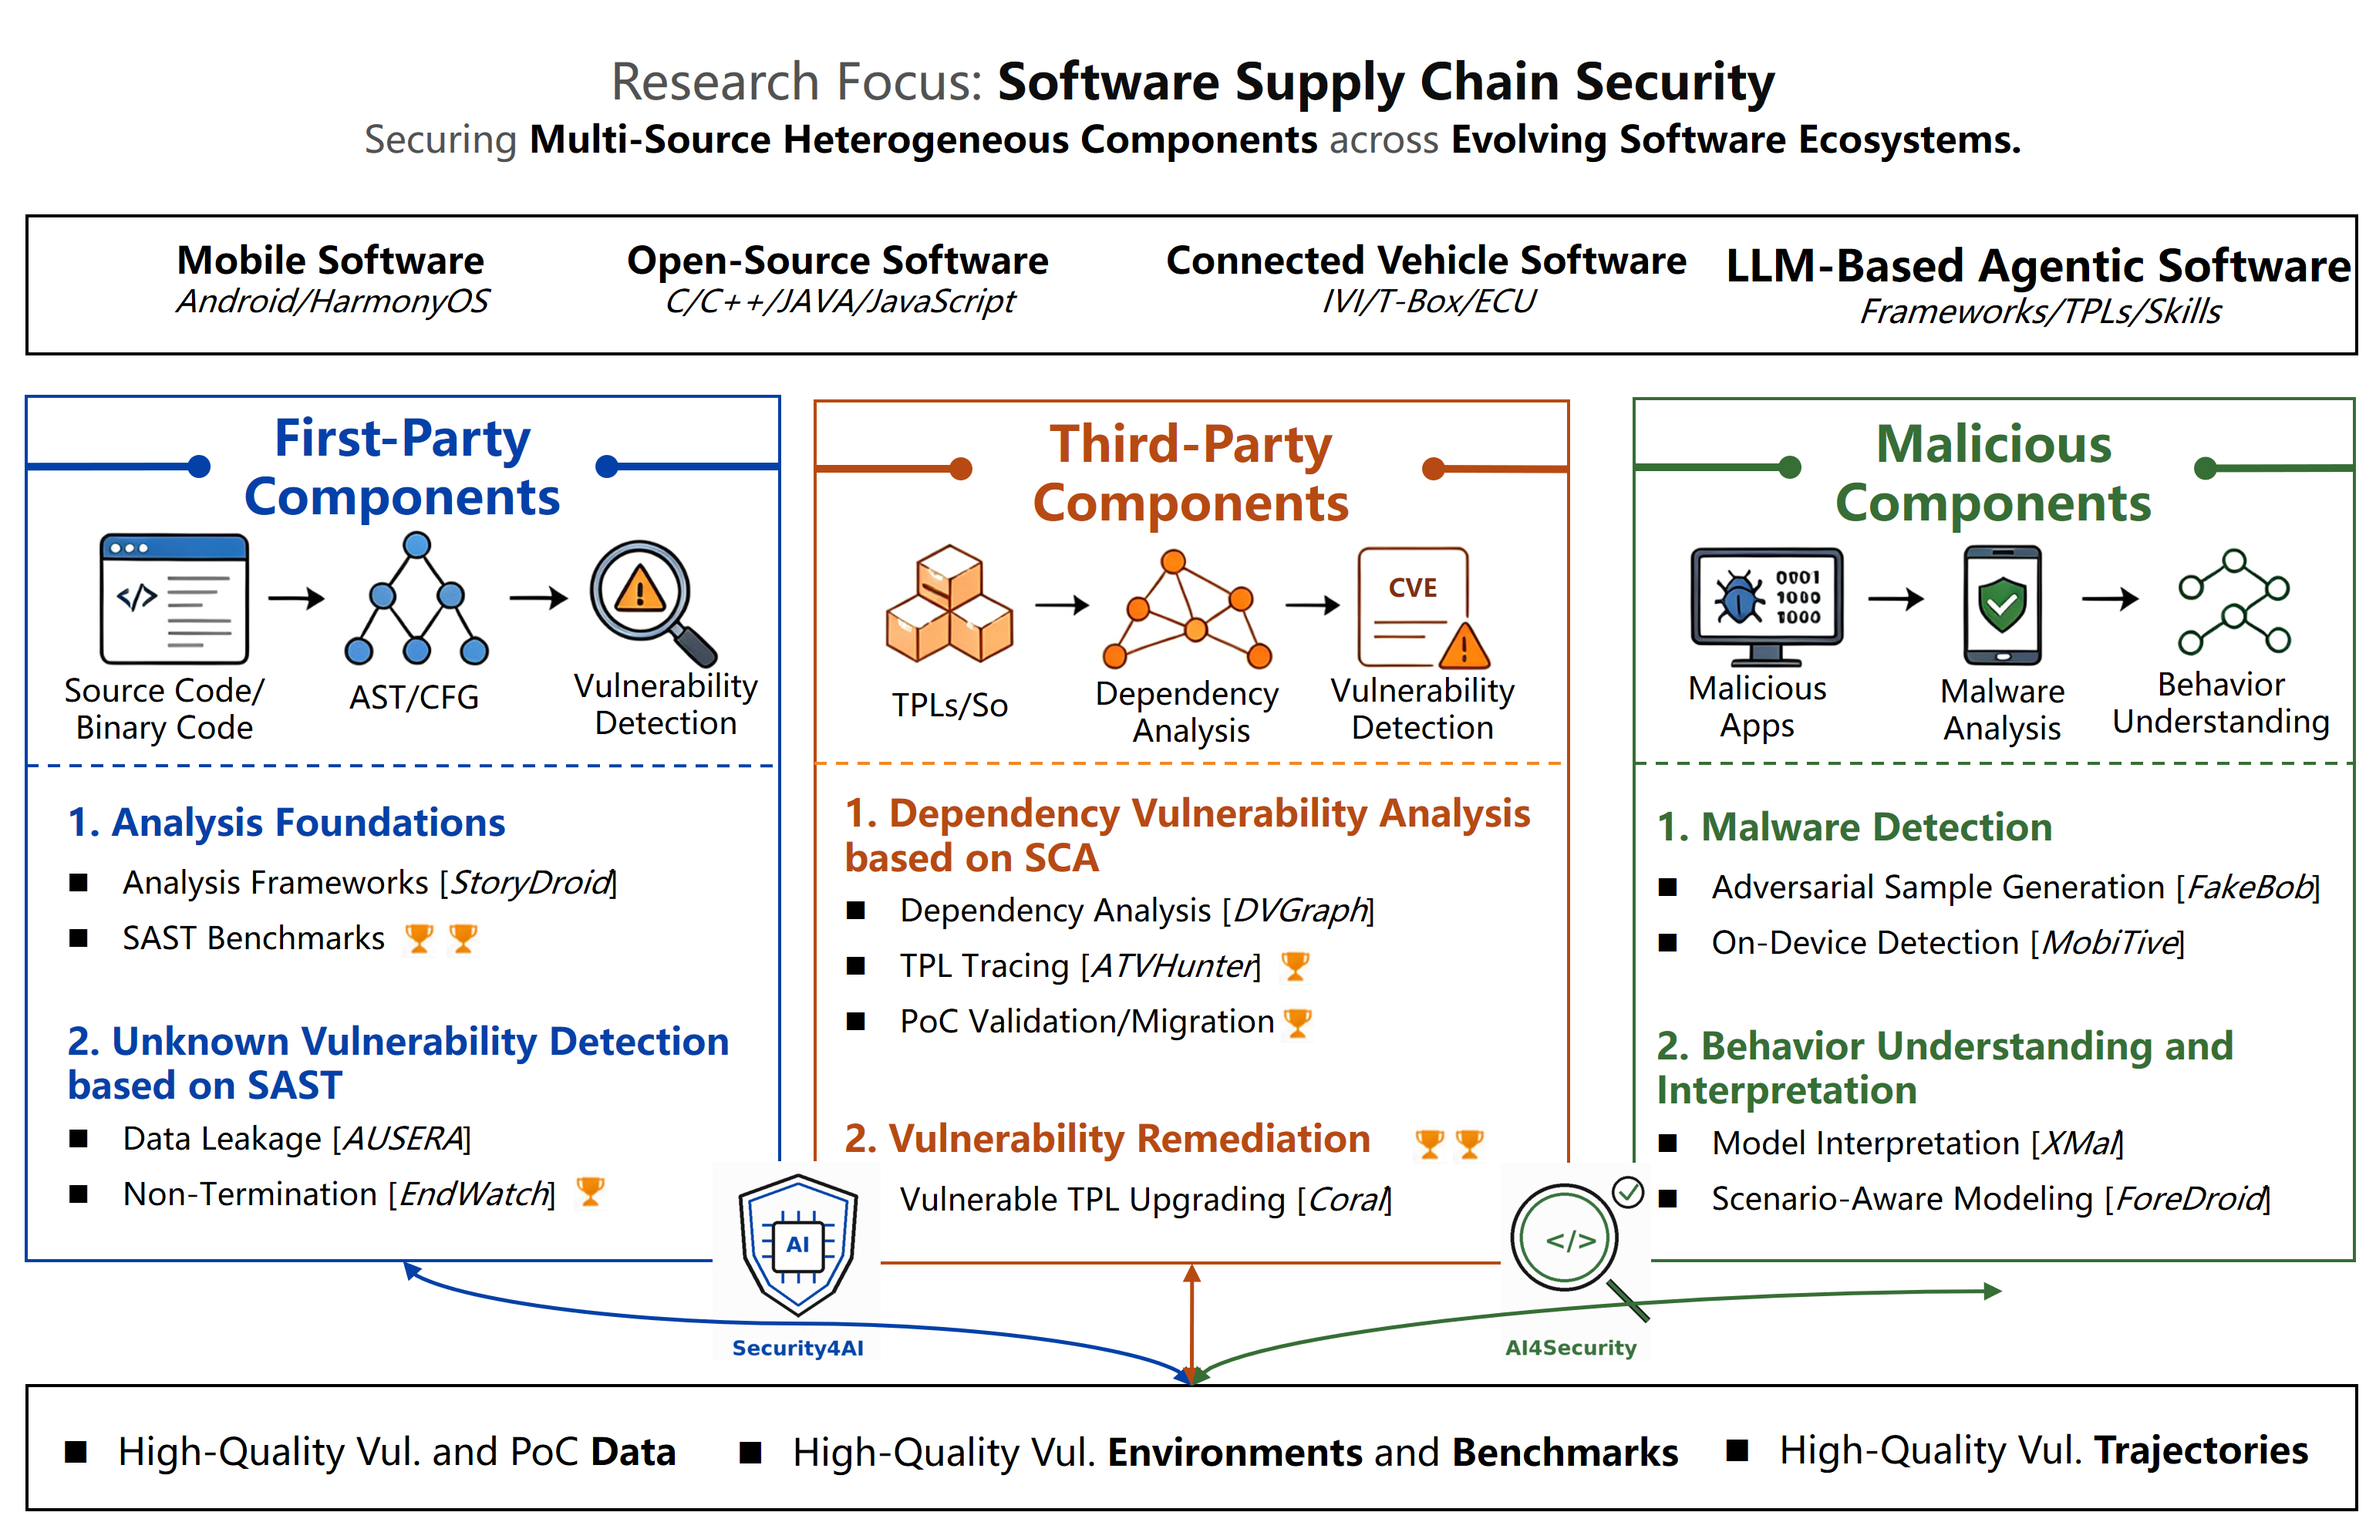
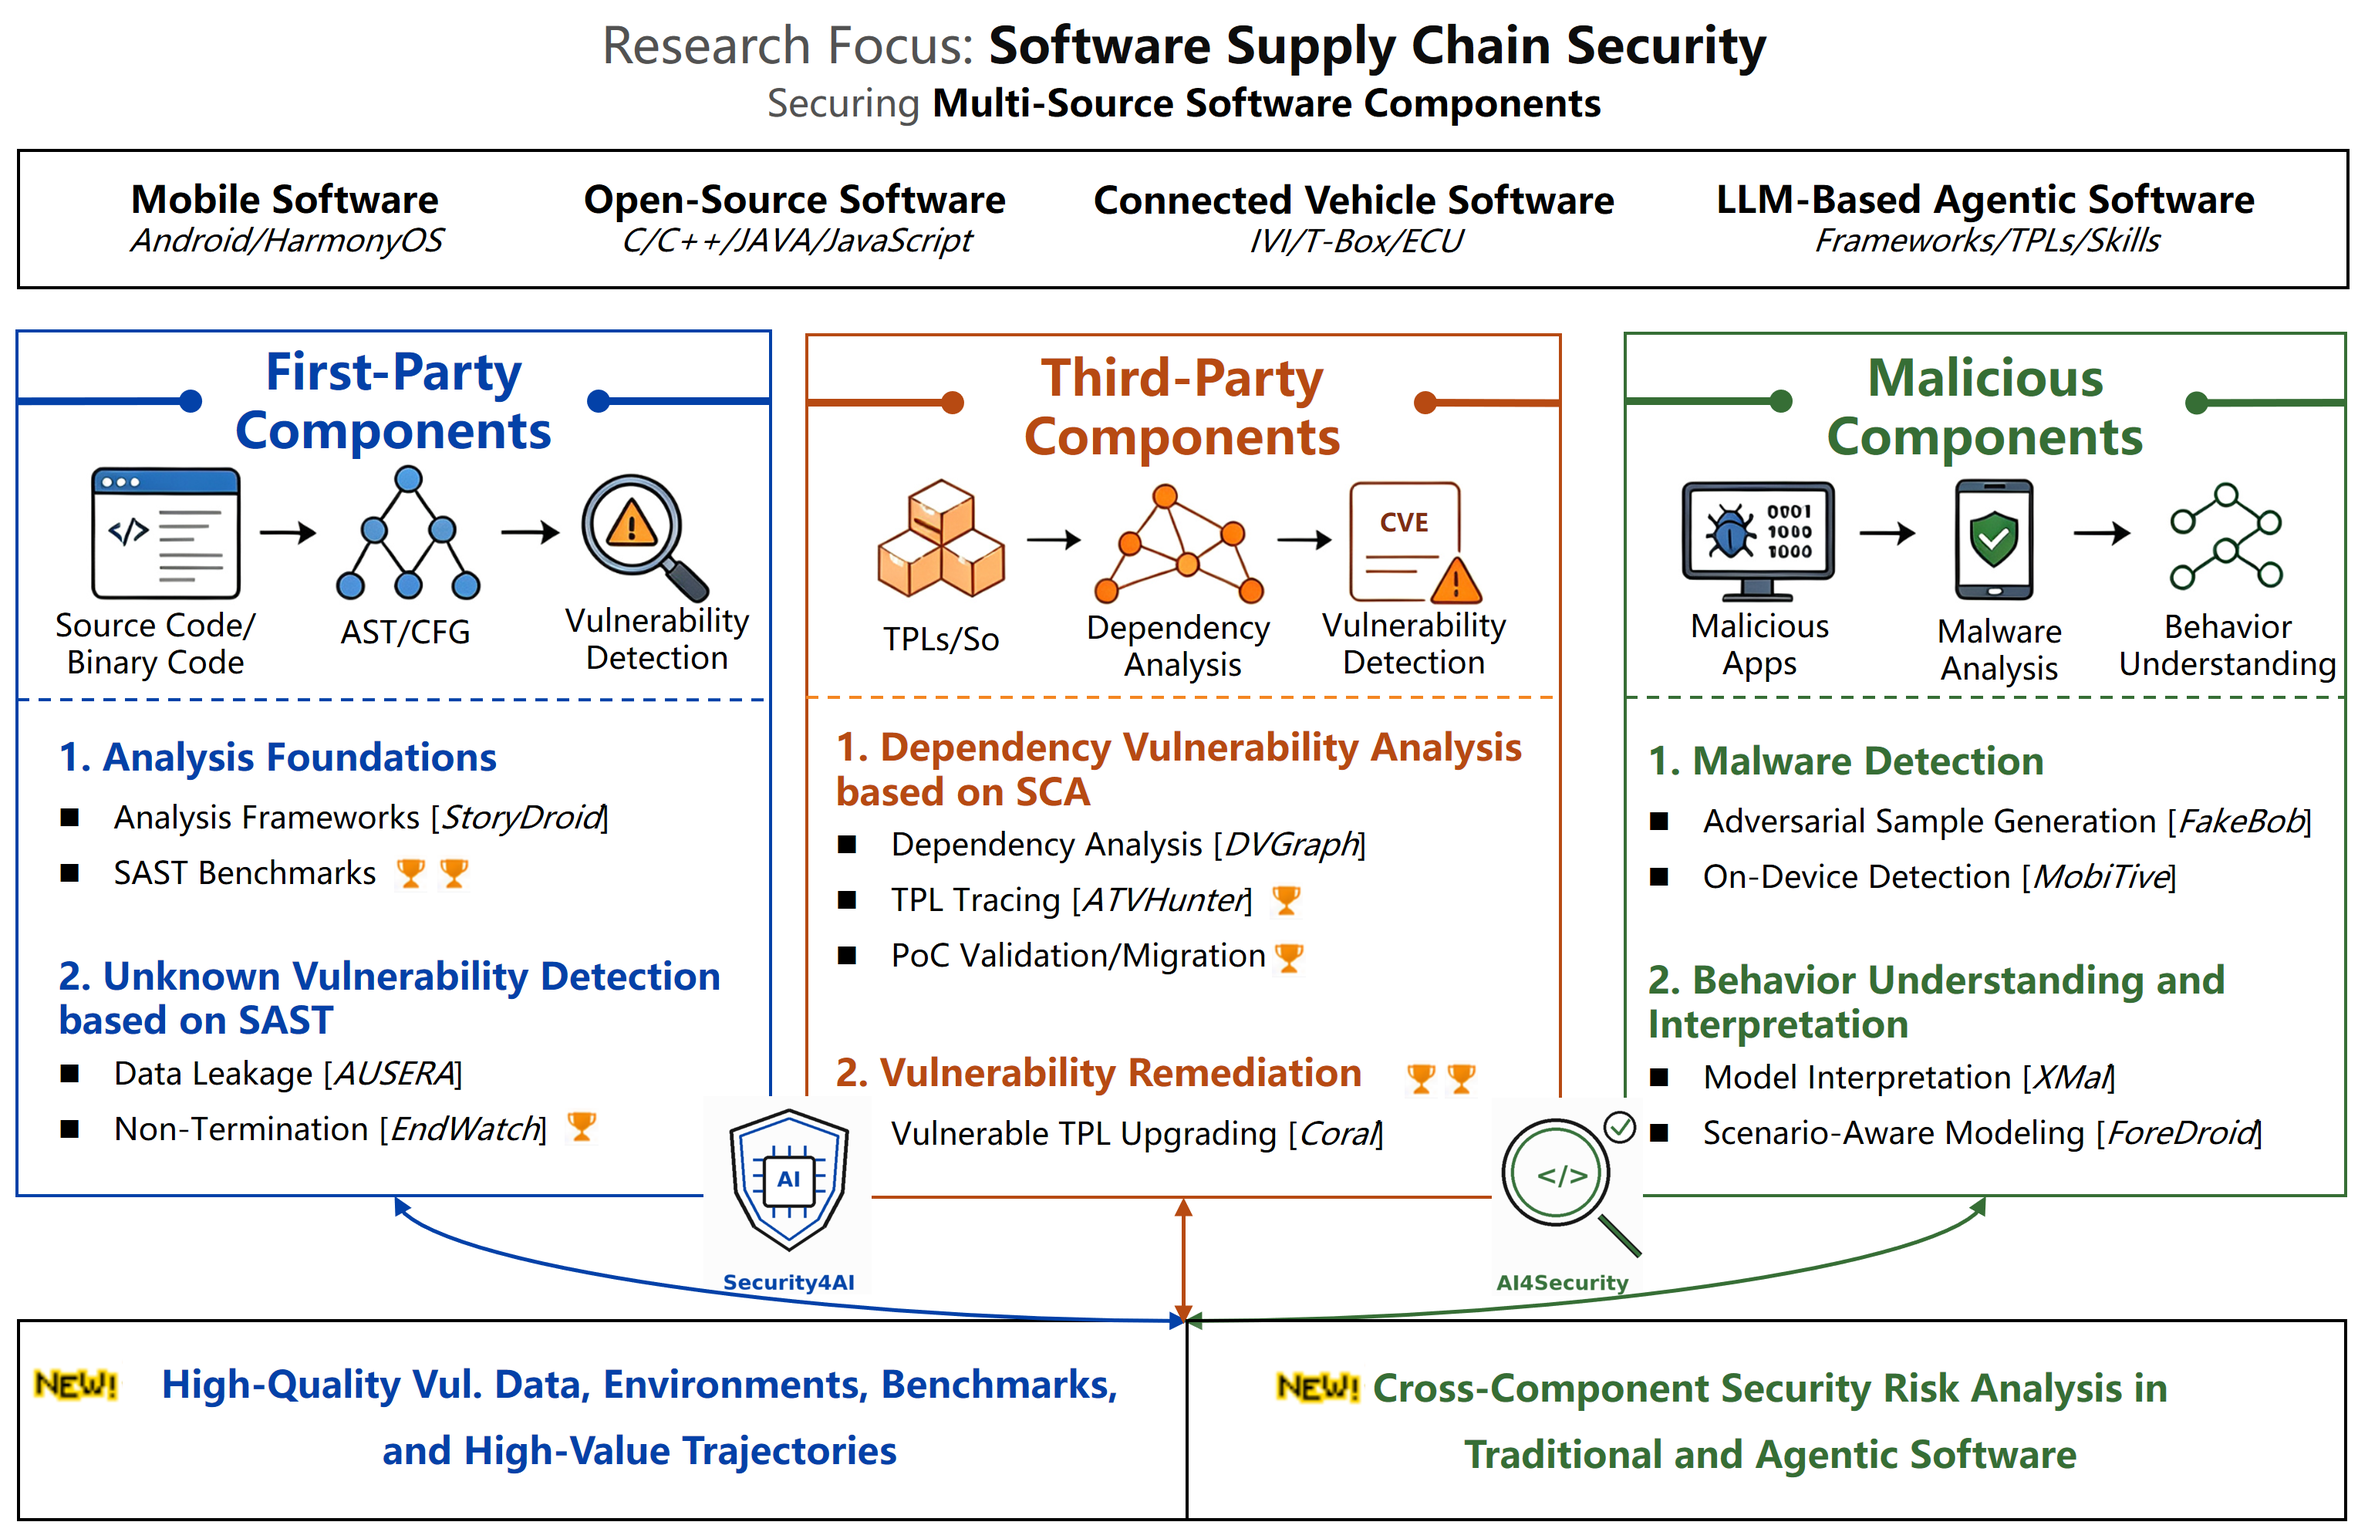
update

Changed region(s): [[0.0, 0.0, 1.0, 1.0]]

diff --git a/index.html b/index.html
@@ -32,7 +32,7 @@
 					<div class="affil">
 						Full Professor, College of Cryptology and Cyber Science, Nankai University, China
 					</div>
-					<p class="research-position">Software Supply Chain Security · Multi-Source Heterogeneous Component Security · Intelligent Software Security</p>
+					<p class="research-position">Software Supply Chain Security · Multi-Source Software Component Security · AI4Security · Security4AI</p>
 <div class="meta">
 						<span><strong>Office</strong>: Room 563, College of Cryptology and Cyber Science Building, Jinnan Campus</span>
 						<span><strong>Email</strong>: <a href="mailto:senchen@nankai.edu.cn">senchen@nankai.edu.cn</a></span>
@@ -67,7 +67,7 @@
                             Prior to joining Nankai University, I was a tenured Associate Professor and Research Professor at <a href="https://www.tju.edu.cn/" target="_blank" rel="noreferrer">Tianjin University</a>, China (2021–2024). Before that, I was a Research Assistant Professor at <a href="https://www.ntu.edu.sg/" target="_blank" rel="noreferrer">Nanyang Technological University</a>, Singapore, where I worked with <a href="https://personal.ntu.edu.sg/liuyang/" target="_blank" rel="noreferrer">Prof. Yang Liu</a>.
                         </p>
                         <p class="prose">
-                            My research is in software security, with a focus on <strong>software supply chain security, AI4Security, and Security4AI</strong>. I study the security of multi-source, heterogeneous components as software evolves, spanning traditional software and LLM-based agent software. I have published over 100 papers in leading cybersecurity and software engineering venues, including IEEE S&amp;P, CCS, ICSE, and FSE, with more than 70 papers in CCF-A journals and conferences. My work has received <strong>seven Distinguished Paper Awards</strong> at ICSE (×4), ASE (×2), and FSE (×1).
+                            My research is in software security, with a focus on <strong>software supply chain security, AI4Security, and Security4AI</strong>. I study the security of multi-source software components as software evolves, spanning traditional software and LLM-based agentic software. I have published over 100 papers in leading cybersecurity and software engineering venues, including IEEE S&amp;P, CCS, ICSE, and FSE, with more than 70 papers in CCF-A journals and conferences. My work has received <strong>seven Distinguished Paper Awards</strong> at ICSE (×4), ASE (×2), and FSE (×1).
                         </p>
                         <!-- <p class="prose">
                             I have contributed to the National Science and Technology Innovation 2030 Major Program and led research tasks and projects supported by national key programs, the National Key R&amp;D Program of China, the National Natural Science Foundation of China (General Program and Young Scientists Fund, Category C), Tianjin's major science and technology development program, the CCF–Huawei Populus euphratica Fund for system software, and Huawei's device business. My research has been applied by several national ministries and agencies, the National Computer Virus Emergency Response Center, State Grid, China Automotive Technology and Research Center (CATARC), and Huawei. I also contributed to work that received the <strong>2020 Tianjin Science and Technology Progress Award (First Prize)</strong>.

diff --git a/index-ch.html b/index-ch.html
@@ -30,7 +30,7 @@
 				<div>
 					<h1 class="name">陈森</h1>
 					<div class="affil">南开大学密码与网络空间安全学院、计算机学院 教授</div>
-					<p class="research-position">软件供应链安全 · 多源异构成分安全 · 智能化软件安全</p>
+					<p class="research-position">软件供应链安全 · 多源软件成分安全 · AI4Security · Security4AI</p>
 <div class="meta">
 						<span><strong>办公地点</strong>：津南校区密码与网络空间安全学院楼563室</span>
 						<span><strong>邮箱</strong>：<a href="mailto:senchen@nankai.edu.cn">senchen@nankai.edu.cn</a></span>
@@ -68,7 +68,7 @@
 						<p>
 							<!-- 指导学生获得全国”互联网+”和挑战杯全国金奖各1项，参编《安全软件工程》教材1部。 -->
 							研究领域为软件安全，主要研究方向为<strong>软件供应链安全、AI4Security与Security4AI，
-							聚焦面向软件形态演化（包括传统软件和大模型智能体软件）的多源异构成分安全</strong>。
+							聚焦面向软件形态演化（包括传统软件和大模型智能体软件）的多源软件成分安全</strong>。
 							发表网络安全和软件工程领域包括IEEE S&P、CCS、ICSE、FSE等高水平论文100余篇，其中CCF-A类期刊或会议论文70余篇，获得<strong>CCF-A类国际顶会1奖7项</strong>（ICSE×4、ASE×2、FSE×1）。
 							参与国家科技2030重大专项项目，承担国家重点项目课题、国家重点研发计划重点专项任务多项、国自科面上项目、青C项目、天津市科技发展重大专项课题、CCF-华为胡杨林基金项目（系统软件专项）、华为终端校企合作项目多项，
 							研究工作在<strong>国家多个部委、国家计算机病毒中心、国家电网、中汽研、华为</strong>等单位或企业落地应用，参与获得2020年度天津市科技进步一等奖。
